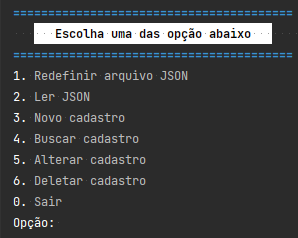
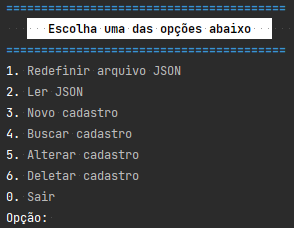
CRUD Json

diff --git a/script.py b/script.py
@@ -11,7 +11,7 @@ class CrudJson:
 
         print()
         print('\033[1:34m=\033[m' * 40)
-        print('{:^55}'.format('\033[1:30:107m   Escolha uma das opção abaixo   \033[m'))
+        print('{:^55}'.format('\033[1:30:107m   Escolha uma das opções abaixo   \033[m'))
         print('\033[1:34m=\033[m' * 40)
         resp = int(input('\033[97m1.\033[m Redefinir arquivo JSON\n'
                          '\033[97m2.\033[m Ler JSON\n'
